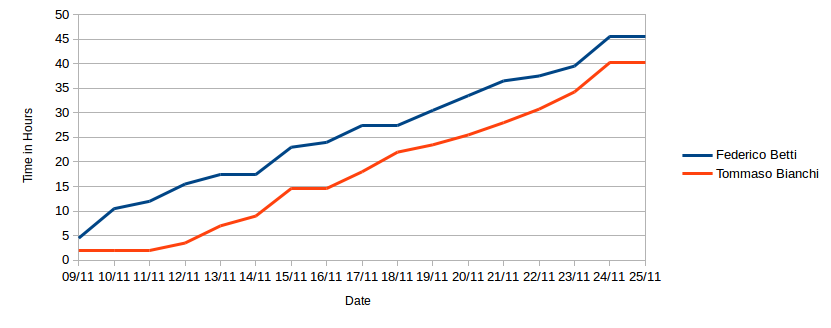
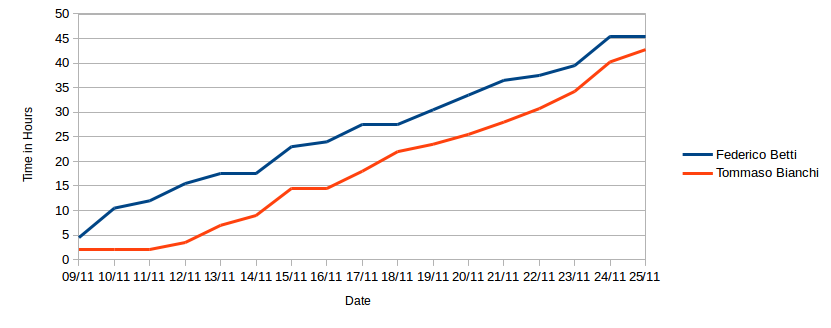
Updated effort spent

diff --git a/DD/Latex/Files/Appendix/effortspent.tex b/DD/Latex/Files/Appendix/effortspent.tex
@@ -20,7 +20,7 @@
 		22/11 &	2,75 &	1 \\ \hline
 		23/11 &	3,5 &	2 \\ \hline
 		24/11 &	6 &		6 \\ \hline
-		25/11 &	0 &		0 \\ \hline
+		25/11 &	2,5 &		0 \\ \hline
 	\end{tabular}
 	\caption{Effort Spent}
 \end{table}
